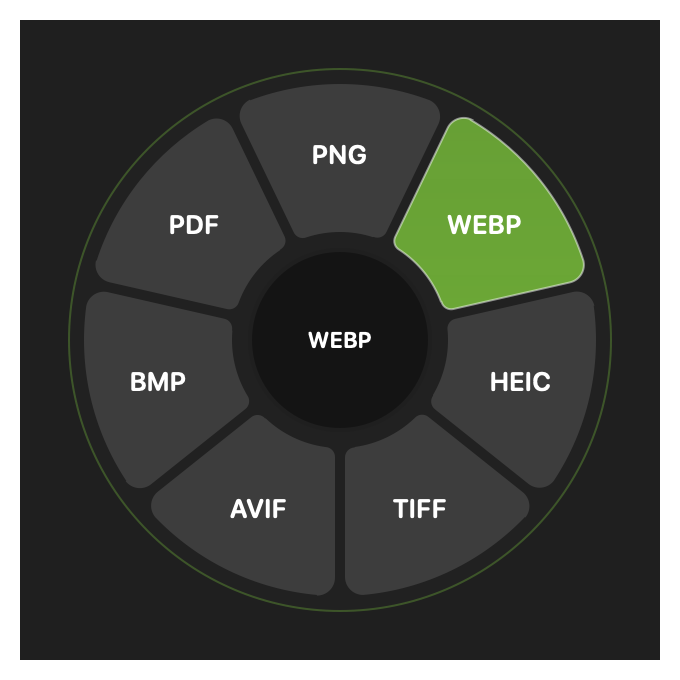
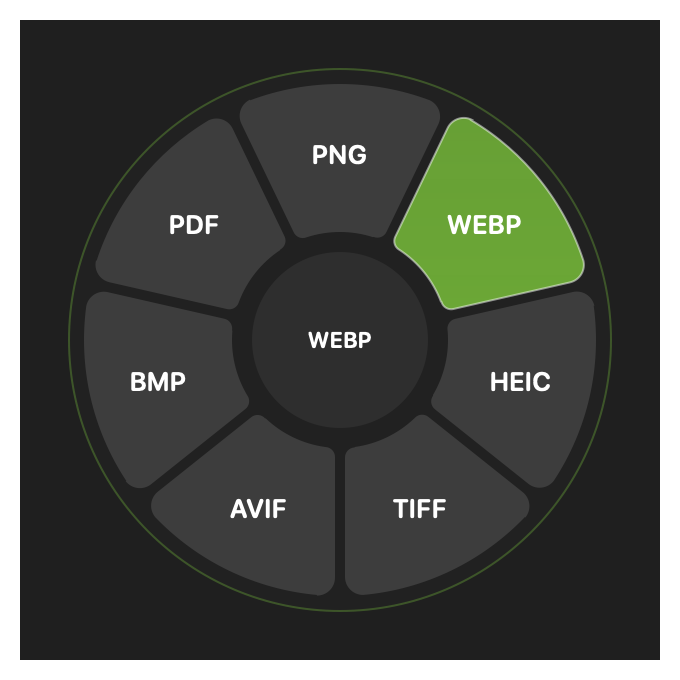
fix: real Liquid Glass wheel, and glass styles that follow light mode
- Liquid Glass now makes every petal and the hub a separate piece of glass
  in a GlassEffectContainer, with the highlighted petal painted lime. The
  dark smoke layer that made it look like Frosted is gone.
- Frosted uses an adaptive blur, so light mode gets a light wheel with dark
  labels instead of always being dark. Liquid Shelf drops its heavy tint.
- Solid fills the whole disc and an opaque hub, so nothing shows through.
- Offscreen renders use Frosted; the README shows a real Liquid Glass capture.

Changed region(s): [[0.3706, 0.3706, 0.6485, 0.6485]]

diff --git a/Sources/Wheel/WheelView.swift b/Sources/Wheel/WheelView.swift
@@ -15,7 +15,7 @@ final class WheelModel: ObservableObject {
     let geometry = WheelGeometry()
 }
 
-/// The wheel: a smoked disc, frosted petals, a lime highlight and a round
+/// The wheel: glass, frosted or solid petals, a lime highlight and a round
 /// readout in the middle.
 struct WheelView: View {
     @ObservedObject var model: WheelModel
@@ -28,6 +28,7 @@ struct WheelView: View {
                 emptyLabel
             } else {
                 backdrop
+                liquidGlass
                 ForEach(Array(model.items.enumerated()), id: \.element.id) { index, item in
                     petal(index: index, item: item)
                 }
@@ -45,30 +46,43 @@ struct WheelView: View {
     }
 
     private var dark: Bool { scheme == .dark }
-    private var labelColor: Color { dark || model.glass ? .white : Color(white: 0.12) }
+    private var labelColor: Color { dark ? .white : Color(white: 0.12) }
+    /// Petals and hub are Liquid Glass pieces rather than painted shapes.
+    private var liquid: Bool { model.glass && model.liquid && SurfaceStyle.liquidAvailable }
 
     private var discFill: Color { dark ? Color(white: 0.13) : Color(white: 0.88) }
 
-    /// Tint over the glass, dark enough for white labels on any window.
-    private var smoke: Color {
-        dark ? Color.black.opacity(0.3) : Color(red: 0.1, green: 0.14, blue: 0.08).opacity(0.5)
+    /// Solid ring, or a frosted disc that follows light and dark mode.
+    /// The Liquid Glass wheel has no disc; its petals are the glass.
+    @ViewBuilder private var backdrop: some View {
+        if !liquid {
+            ZStack {
+                if model.glass {
+                    GlassBackdrop(shape: Circle(), liquid: false, material: .popover).frame(width: g.disc * 2, height: g.disc * 2)
+                } else {
+                    Circle().fill(discFill).frame(width: g.disc * 2, height: g.disc * 2)
+                }
+                Circle().strokeBorder(Color(nsColor: Brand.accent).opacity(0.35), lineWidth: 1)
+                    .frame(width: g.disc * 2, height: g.disc * 2)
+            }
+        }
     }
 
-    private var backdrop: some View {
-        ZStack {
-            if model.glass {
-                GlassBackdrop(shape: Circle(), tint: smoke, liquid: model.liquid).frame(width: g.disc * 2, height: g.disc * 2)
-            } else {
-                RingShape(outer: g.disc, inner: g.hole).fill(discFill, style: FillStyle(eoFill: true))
-            }
-            Circle().strokeBorder(Color(nsColor: Brand.accent).opacity(0.35), lineWidth: 1)
-                .frame(width: g.disc * 2, height: g.disc * 2)
+    @ViewBuilder private var liquidGlass: some View {
+        if liquid, #available(macOS 26.0, *) {
+            LiquidPetals(count: model.items.count, selected: model.selected, hubDiameter: g.hole * 2 - 4)
         }
     }
 
     private var petalFill: Color {
         if !model.glass { return dark ? Color(white: 0.24) : Color.white }
-        return Color.white.opacity(dark ? 0.1 : 0.16)
+        return dark ? Color.white.opacity(0.1) : Color.white.opacity(0.5)
+    }
+
+    private var hubFill: Color {
+        if liquid { return .clear }
+        if model.glass { return dark ? Color.black.opacity(0.3) : Color.white.opacity(0.7) }
+        return dark ? Color(white: 0.18) : Color(white: 0.96)
     }
 
     private var selectedFill: LinearGradient {
@@ -83,7 +97,8 @@ struct WheelView: View {
         let label = g.labelCenter(index, of: count)
         let textColor: Color = active ? .white : labelColor
         return ZStack {
-            if active { shape.fill(selectedFill) } else { shape.fill(petalFill) }
+            // Liquid Glass petals are glass already; only the highlight is painted.
+            if active { shape.fill(selectedFill) } else if !liquid { shape.fill(petalFill) }
             if active { shape.stroke(Color.white.opacity(0.5), lineWidth: 1) }
             if let symbol = item.symbol {
                 VStack(spacing: 3) {
@@ -120,7 +135,7 @@ struct WheelView: View {
             .foregroundStyle(labelColor)
             .padding(.horizontal, 8)
             .frame(width: g.hole * 2 - 4, height: g.hole * 2 - 4)
-            .background(Circle().fill(dark || model.glass ? Color.black.opacity(0.35) : Color.white.opacity(0.9)))
+            .background(Circle().fill(hubFill))
             .id(lines.joined())
             .transition(.opacity)
         }
@@ -136,7 +151,7 @@ struct WheelView: View {
             .frame(width: 260, height: 40)
             .background {
                 let shape = RoundedRectangle(cornerRadius: 10, style: .continuous)
-                if model.glass { GlassBackdrop(shape: shape, tint: smoke, liquid: model.liquid) } else { shape.fill(discFill) }
+                if model.glass { GlassBackdrop(shape: shape, liquid: liquid, material: .popover) } else { shape.fill(discFill) }
             }
             .overlay(RoundedRectangle(cornerRadius: 10, style: .continuous).strokeBorder(Color(nsColor: Brand.accent).opacity(0.35), lineWidth: 1))
     }
@@ -151,28 +166,20 @@ struct PetalShape: Shape {
     }
 }
 
-struct RingShape: Shape {
-    let outer: CGFloat, inner: CGFloat
-    func path(in rect: CGRect) -> Path {
-        var p = Path()
-        p.addEllipse(in: CGRect(x: rect.midX - outer, y: rect.midY - outer, width: outer * 2, height: outer * 2))
-        p.addEllipse(in: CGRect(x: rect.midX - inner, y: rect.midY - inner, width: inner * 2, height: inner * 2))
-        return p
-    }
-}
-
 /// See-through backdrop that blurs whatever sits behind it, so file names
 /// underneath never compete with the labels: Liquid Glass when chosen and
 /// available (macOS 26 and later), a behind-window blur otherwise.
 struct GlassBackdrop<S: Shape>: View {
     let shape: S
-    let tint: Color
+    var tint: Color = .clear
     var liquid = true
+    /// Blur used when Liquid Glass is off or unavailable.
+    var material: NSVisualEffectView.Material = .hudWindow
     var body: some View {
         if liquid, #available(macOS 26.0, *) {
             Color.clear.glassEffect(.regular, in: shape).overlay(shape.fill(tint))
         } else {
-            VisualEffectBlur(material: .hudWindow).clipShape(shape).overlay(shape.fill(tint))
+            VisualEffectBlur(material: material).clipShape(shape).overlay(shape.fill(tint))
         }
     }
 }

diff --git a/Sources/Wheel/LiquidPetals.swift b/Sources/Wheel/LiquidPetals.swift
@@ -1,0 +1,27 @@
+import SwiftUI
+
+/// Liquid Glass wheel (macOS 26 and later): every petal and the hub is its
+/// own piece of glass, and the highlighted petal is tinted lime. Labels are
+/// drawn on top by `WheelView`.
+@available(macOS 26.0, *)
+struct LiquidPetals: View {
+    let count: Int
+    let selected: Int?
+    let hubDiameter: CGFloat
+
+    var body: some View {
+        GlassEffectContainer(spacing: 0) {
+            ZStack {
+                ForEach(0..<count, id: \.self) { index in
+                    Color.clear.glassEffect(style(for: index), in: PetalShape(index: index, count: count))
+                }
+                Color.clear.frame(width: hubDiameter, height: hubDiameter).glassEffect(.regular, in: Circle())
+            }
+        }
+        .frame(width: WheelGeometry.canvasSide, height: WheelGeometry.canvasSide)
+    }
+
+    private func style(for index: Int) -> Glass {
+        index == selected ? .regular.tint(Color(nsColor: Brand.accent)) : .regular
+    }
+}

diff --git a/Sources/Windows/Shelf.swift b/Sources/Windows/Shelf.swift
@@ -63,8 +63,9 @@ struct ShelfView: View {
     }
 
     private var card: some View {
-        GlassBackdrop(shape: RoundedRectangle(cornerRadius: 16, style: .continuous),
-                      tint: scheme == .dark ? Color.black.opacity(0.25) : Color.white.opacity(0.55), liquid: settings.surface == .liquid)
+        let liquid = settings.surface == .liquid
+        let tint = liquid ? Color.clear : scheme == .dark ? Color.black.opacity(0.25) : Color.white.opacity(0.55)
+        return GlassBackdrop(shape: RoundedRectangle(cornerRadius: 16, style: .continuous), tint: tint, liquid: liquid)
     }
 
     private var header: some View {

diff --git a/Sources/App/RenderHarness.swift b/Sources/App/RenderHarness.swift
@@ -18,6 +18,8 @@ enum RenderHarness {
             model.mode = mode
             model.selected = selected
             model.glass = glass
+            // Liquid Glass needs the window server, so offscreen renders use Frosted.
+            model.liquid = false
             model.idleLabel = "2.4 MB"
             model.presented = true
             return AnyView(WheelView(model: model).background(dark ? Color(white: 0.12) : Color(white: 0.96)).environment(\.colorScheme, dark ? .dark : .light))

diff --git a/README.md b/README.md
@@ -17,7 +17,7 @@ A macOS menu-bar app: tap a key while dragging a file, and a wheel pops up to co
 </div>
 
 <p align="center">
-  <img src="Screenshots/wheel-tools-photo.png" height="170" alt="⌘ tools wheel" />
+  <img src="Screenshots/wheel-liquid.png" height="170" alt="⌘ tools wheel in Liquid Glass" />
   <img src="Screenshots/wheel-convert-audio-selected.png" height="170" alt="⇧ convert wheel" />
   <img src="Screenshots/tool-compress.png" height="170" alt="Compress window" />
   <img src="Screenshots/shelf.png" height="170" alt="Shelf" />
